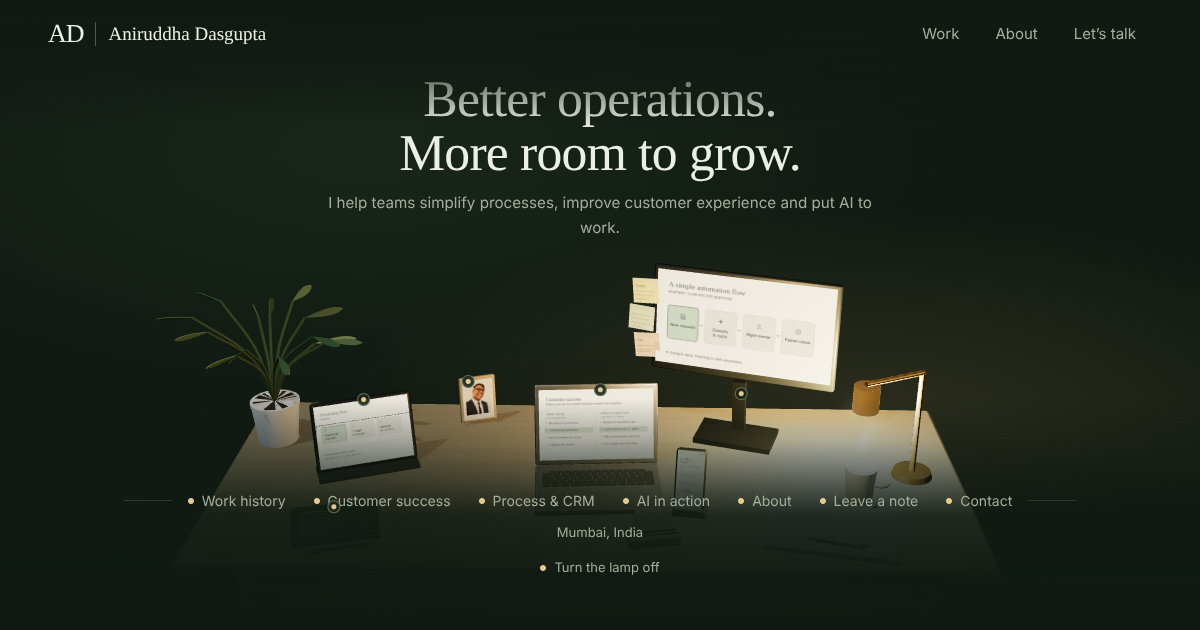
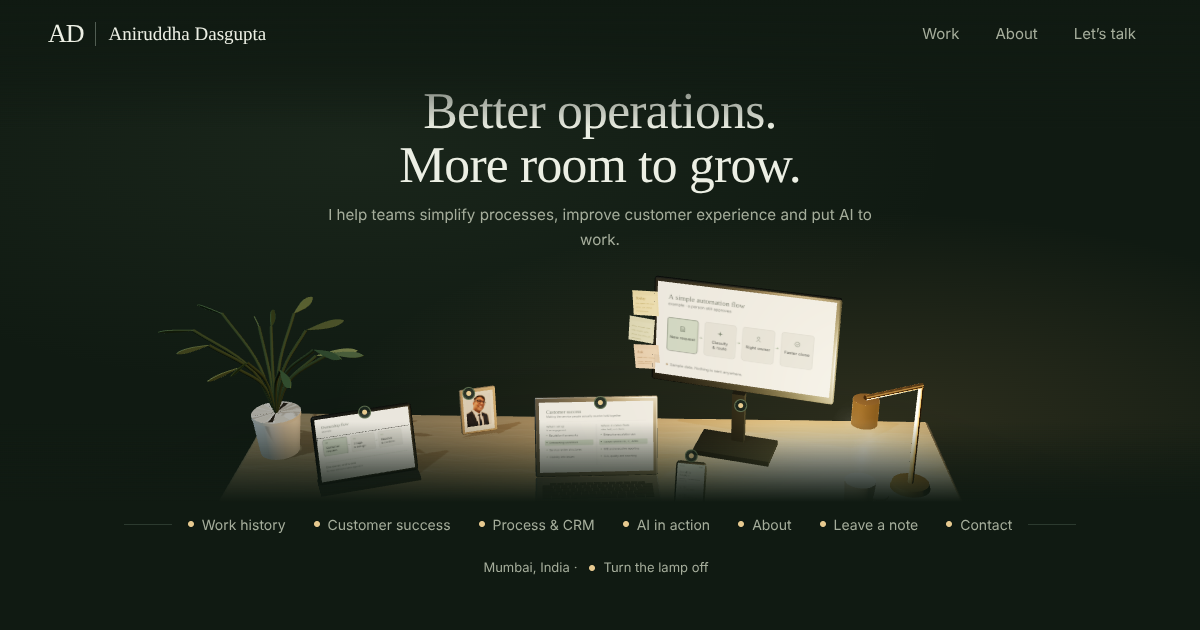
Keep the markers out of the rail, and give every destination an object
Two things the rail fix uncovered.

The scene's markers are HTML inside the canvas, and drei gives them a
z-index of their own. The canvas wrapper created no stacking context, so on
a short window a marker could float over a rail label — visible on the share
card, where two dots sat on the first letter of "Customer success" and
"Leave a note". The wrapper is now isolated, so the page layer above always
wins and a marker that strays into the rail's band is simply covered.

"Leave a note" and "Contact" had no marker at all, so the open notebook and
the phone were the only destinations with nothing to click on the desk. Both
now have one, and all seven were confirmed to open their own panel.

The foot scrim was still painting a hard-coded dark green from before the
lamp existed. It now reads the ivory token, so it is shadow in the lit room
and daylight with the lamp off, like everything else.

The repo's own browser checks were stale — they clicked coordinates for a
desk that has since been rearranged and looked for panels that no longer
exist. They now read the marker positions at runtime instead of hard-coding
anything, click the lamp in the scene, and measure that the scene does not
show through the rail's band.

Share card and poster regenerated.

Claude-Session: https://claude.ai/code/session_01BGa1CL6fHLTSGoxMfoThYw

Changed region(s): [[0.1542, 0.4222, 0.8325, 0.9048], [0.2775, 0.1206, 0.74, 0.3921], [0.6475, 0.5429, 0.6783, 0.573]]

diff --git a/src/components/StudioStage.tsx b/src/components/StudioStage.tsx
@@ -200,7 +200,10 @@ export function StudioStage({ intro }: { intro: React.ReactNode }) {
           }}
         />
 
-        <div className="absolute inset-0">
+        {/* `isolate` keeps the scene and its markers in their own stacking
+            context, so a marker can never float over the rail or the copy
+            on a short window — the page layer above always wins. */}
+        <div className="absolute inset-0 isolate z-0">
           {supported === null ? poster : useFallback ? poster : (
             <StudioCanvas
               state={state}
@@ -218,12 +221,16 @@ export function StudioStage({ intro }: { intro: React.ReactNode }) {
           )}
         </div>
 
-        {/* A low scrim at the very foot of the frame, only deep enough to
-            keep the navigation rail legible over whatever is behind it. */}
+        {/* A low scrim at the very foot of the frame, so the desk settles
+            into the room rather than being cut off by the rail's band. It
+            follows the lamp: shadow in the lit room, daylight with it off. */}
         <div
           aria-hidden="true"
           className="pointer-events-none absolute inset-x-0 bottom-0 z-[5] h-[30%]"
-          style={{ background: 'linear-gradient(to top, rgba(16,26,18,0.9) 3%, rgba(16,26,18,0.5) 34%, rgba(16,26,18,0) 100%)' }}
+          style={{
+            background: 'linear-gradient(to top, rgb(var(--ivory)) 3%,'
+              + ' rgb(var(--ivory) / 0.5) 34%, rgb(var(--ivory) / 0) 100%)',
+          }}
         />
 
         <div className="pointer-events-none relative z-10 flex min-h-[100svh] flex-col">

diff --git a/src/components/studio/Scene.tsx b/src/components/studio/Scene.tsx
@@ -1165,6 +1165,8 @@ export default function Scene({
           <Marker position={[-0.56, 0.93, -0.04]} label="Process & CRM" onClick={() => onPick('process')} />
           <Marker position={[0.38, 0.86, -0.24]}  label="AI in action"  onClick={() => onPick('ai')} />
           <Marker position={[-0.33, 0.885, -0.24]} label="About"        onClick={() => onPick('about')} />
+          <Marker position={[0.56, 0.80, 0.235]}  label="Leave a note" onClick={() => onPick('note')} />
+          <Marker position={[0.235, 0.93, 0.155]} label="Contact"      onClick={() => onPick('contact')} />
         </>
       )}
     </>
